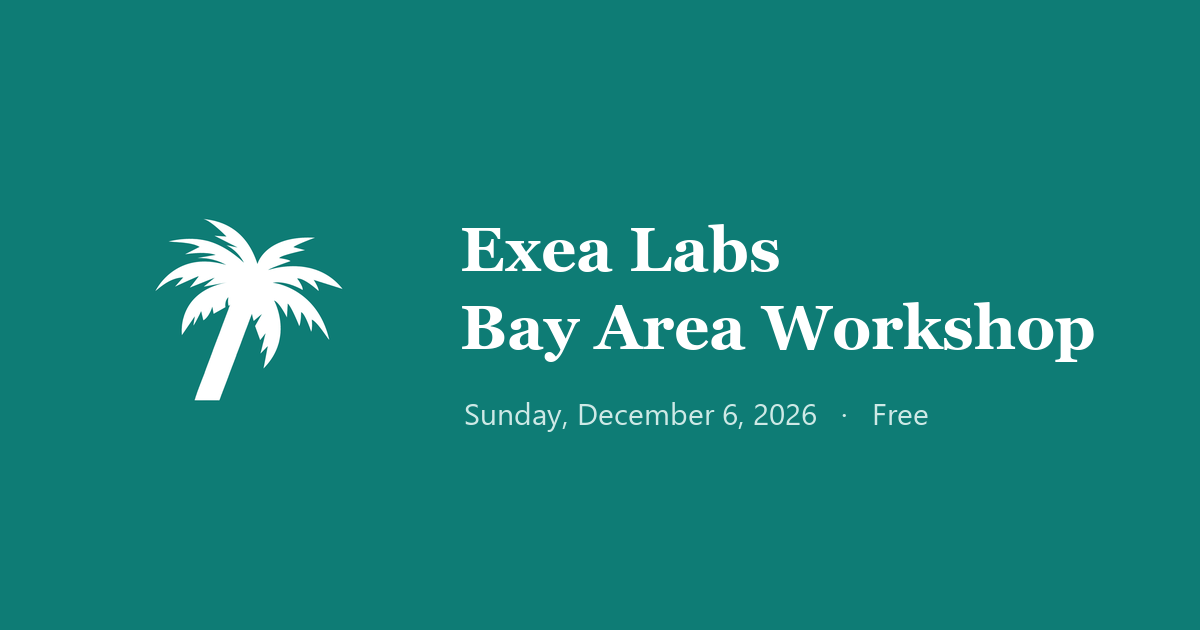
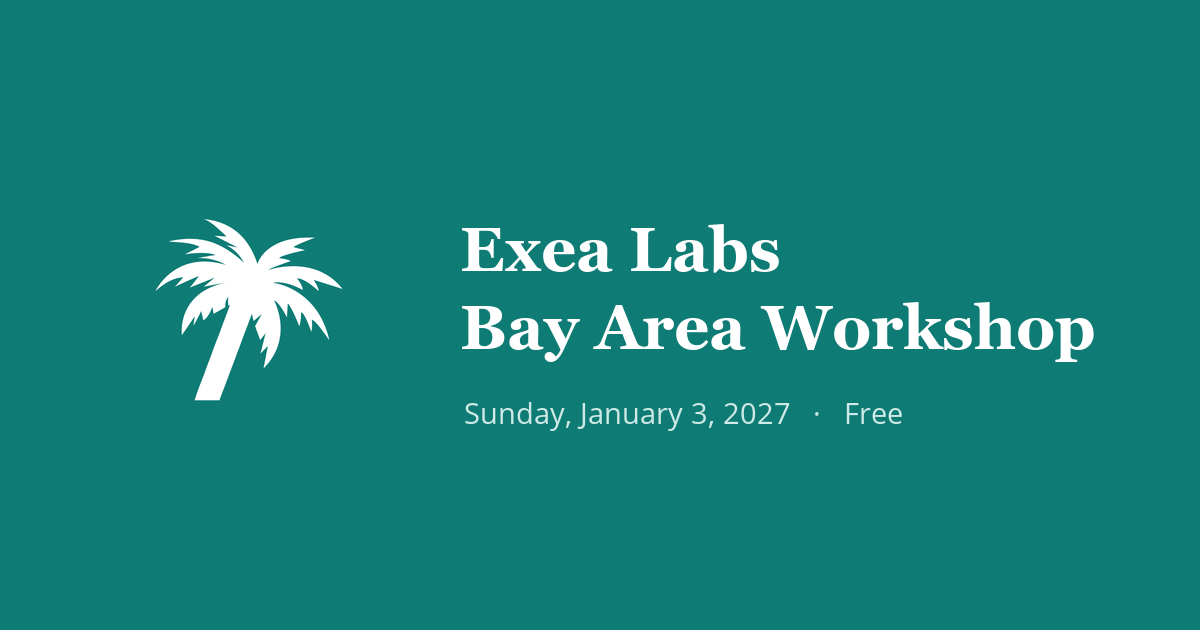
Correct the share card date to January 3, 2027
The og:image still read "Sunday, December 6, 2026" while every page had
already moved to Jan 3, 2027, so link previews showed the old date.
Redrew the subtitle band in the original fonts and bumped a ?v= on the
og:image URLs so scrapers refetch.

Changed region(s): [[0.37, 0.6333, 0.7708, 0.6937]]

diff --git a/public/index.html b/public/index.html
@@ -8,7 +8,7 @@
 <meta property="og:title" content="Exea Labs Bay Area Workshop — Jan 3, 2027">
 <meta property="og:description" content="A free one-day research workshop for high school students at Los Gatos High School. Sunday, January 3, 2027.">
 <meta property="og:type" content="website">
-<meta property="og:image" content="https://exealabs-bayshop.web.app/assets/img/og.png">
+<meta property="og:image" content="https://exealabs-bayshop.web.app/assets/img/og.png?v=2027-01-03">
 <meta name="twitter:card" content="summary_large_image">
 <link rel="icon" type="image/png" sizes="32x32" href="/assets/img/favicon-32.png">
 <link rel="icon" type="image/png" sizes="192x192" href="/assets/img/favicon-192.png">

diff --git a/public/signup.html b/public/signup.html
@@ -8,7 +8,7 @@
 <meta property="og:title" content="Sign Up — Exea Labs Bay Area Workshop">
 <meta property="og:description" content="How to sign up for the Exea Labs Bay Area Workshop on Sunday, January 3, 2027, plus logistics and what to bring.">
 <meta property="og:type" content="website">
-<meta property="og:image" content="https://exealabs-bayshop.web.app/assets/img/og.png">
+<meta property="og:image" content="https://exealabs-bayshop.web.app/assets/img/og.png?v=2027-01-03">
 <meta name="twitter:card" content="summary_large_image">
 <link rel="icon" type="image/png" sizes="32x32" href="/assets/img/favicon-32.png">
 <link rel="icon" type="image/png" sizes="192x192" href="/assets/img/favicon-192.png">

diff --git a/public/about.html b/public/about.html
@@ -8,7 +8,7 @@
 <meta property="og:title" content="Exea Labs — About">
 <meta property="og:description" content="Exea Labs is a student-run research collective giving high school students free compute, mentorship, and a research community.">
 <meta property="og:type" content="website">
-<meta property="og:image" content="https://exealabs-bayshop.web.app/assets/img/og.png">
+<meta property="og:image" content="https://exealabs-bayshop.web.app/assets/img/og.png?v=2027-01-03">
 <meta name="twitter:card" content="summary_large_image">
 <link rel="icon" type="image/png" sizes="32x32" href="/assets/img/favicon-32.png">
 <link rel="icon" type="image/png" sizes="192x192" href="/assets/img/favicon-192.png">

diff --git a/README.md b/README.md
@@ -1,6 +1,6 @@
 # Exea Labs — Bay Area Workshop site
 
-Three-page static site for Exea Workshop #1 (Sunday, December 6, 2026, SF Bay Area).
+Three-page static site for Exea Workshop #1 (Sunday, January 3, 2027, SF Bay Area).
 No build step, no package install, no external requests — plain HTML, one stylesheet,
 one script, and a vendored copy of GSAP.
 
@@ -89,7 +89,7 @@ Hardcoded in the HTML. Search-and-replace across `public/*.html`:
 
 | Fact | Current value | Where |
 | --- | --- | --- |
-| Date | Sunday, December 6, 2026 | all pages + footers |
+| Date | Sunday, January 3, 2027 | all pages + footers, and baked into `public/assets/img/og.png` (Georgia Bold 62 / Open Sans 29) — bump the `?v=` on each `og:image` after redrawing it so scrapers refetch |
 | Time | 12:30 - 5:30 PM | home key-info, signup card |
 | Venue | "SF Bay Area" / "sent to registrants" | home key-info, signup card, signup logistics |
 | Capacity | About 50 students | home key-info, home closing, signup card |
